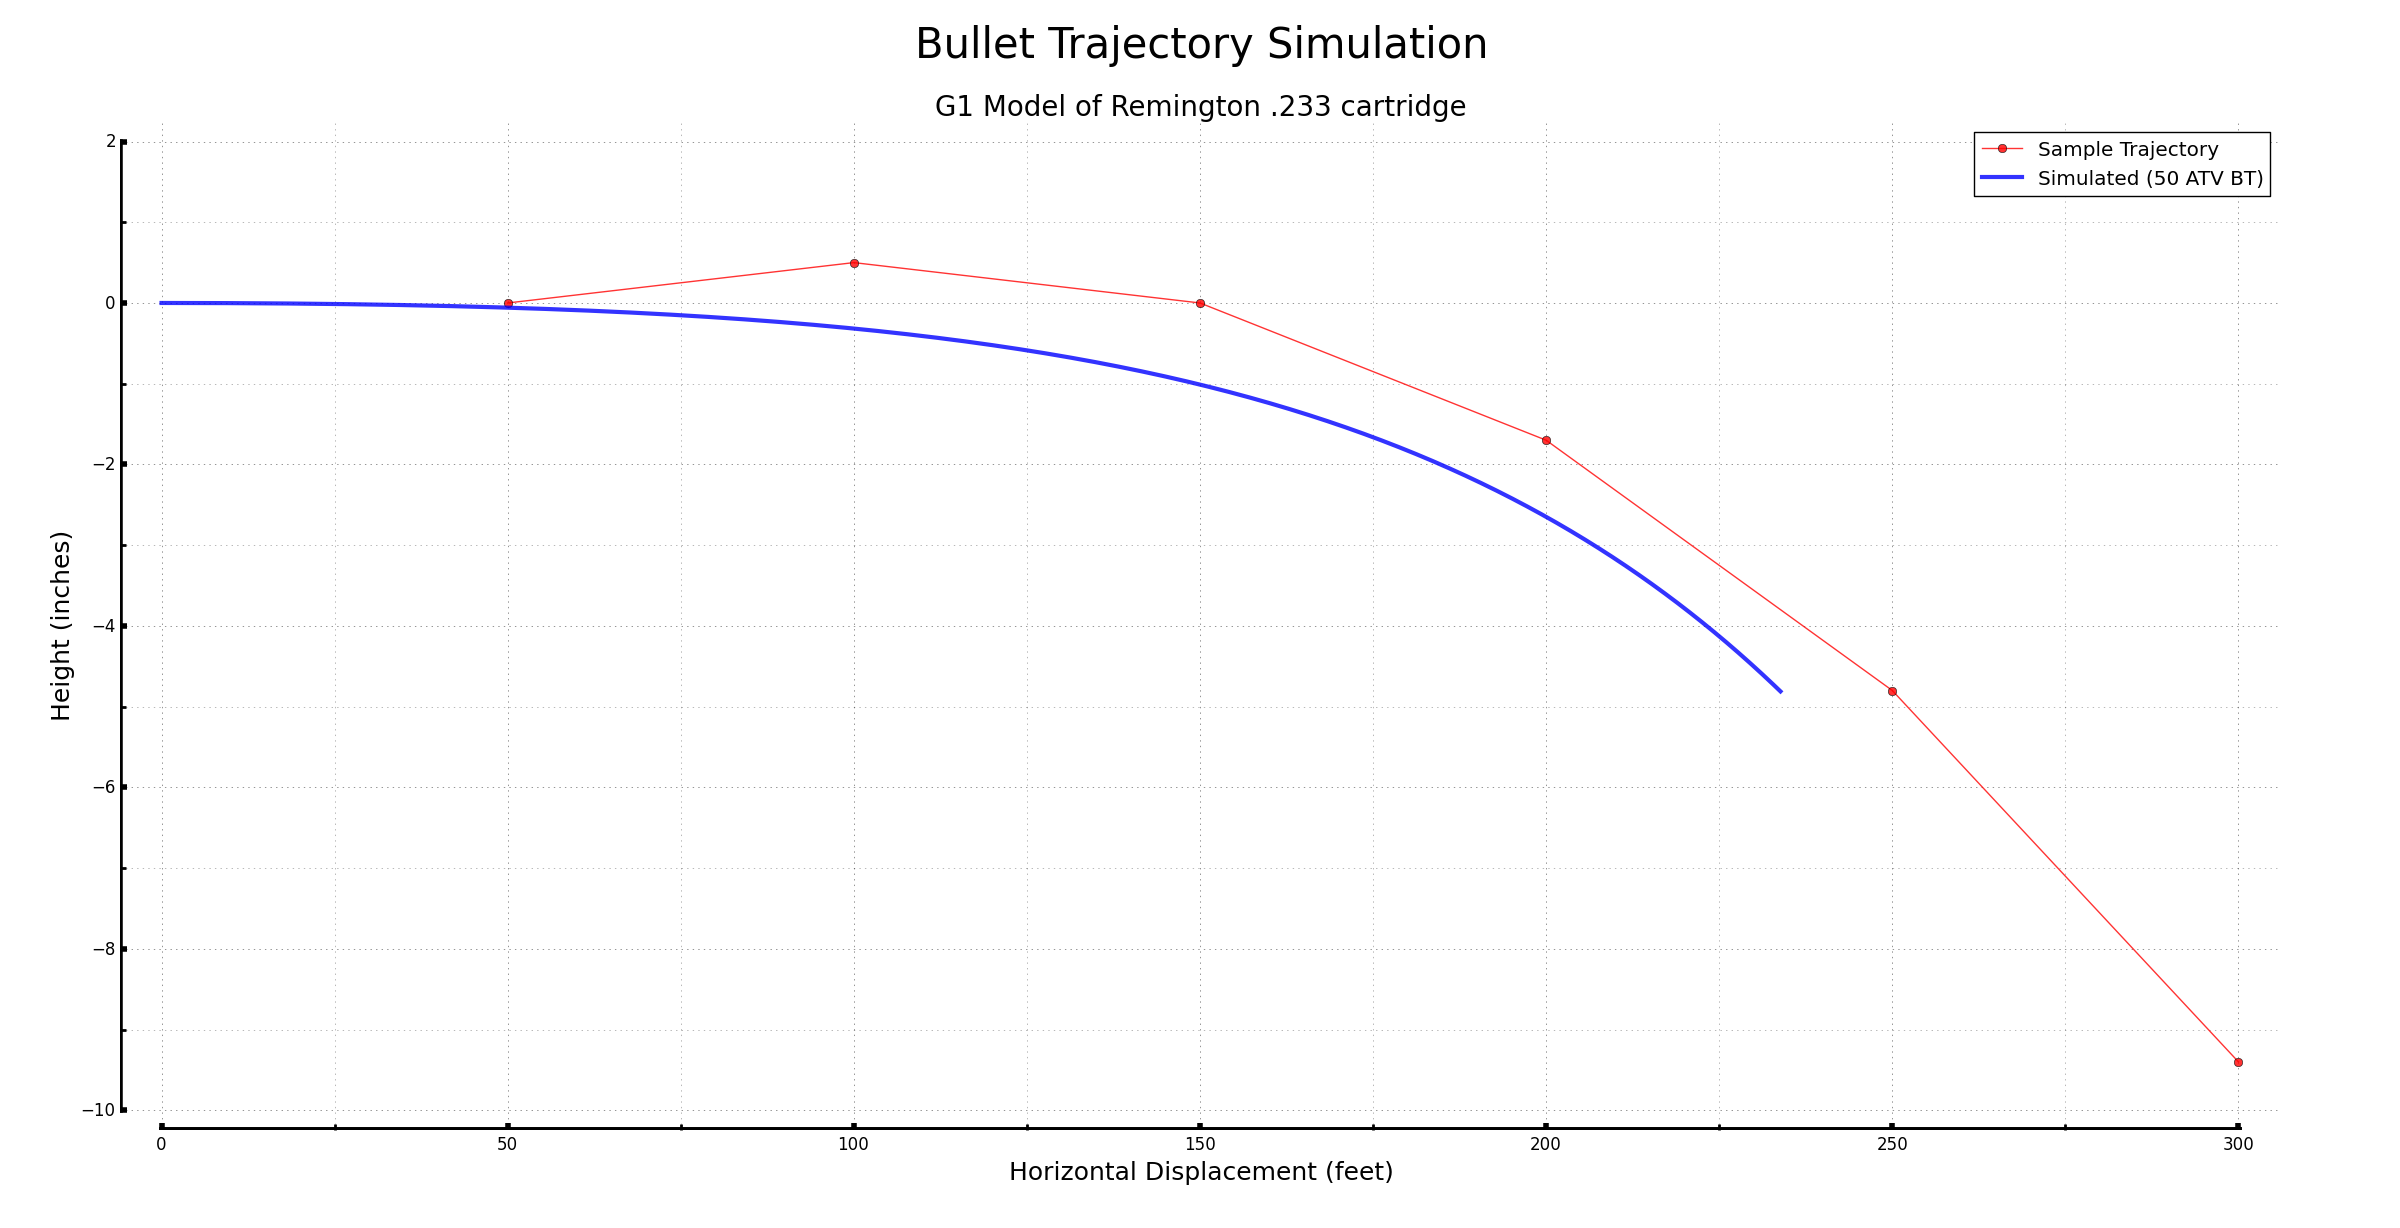
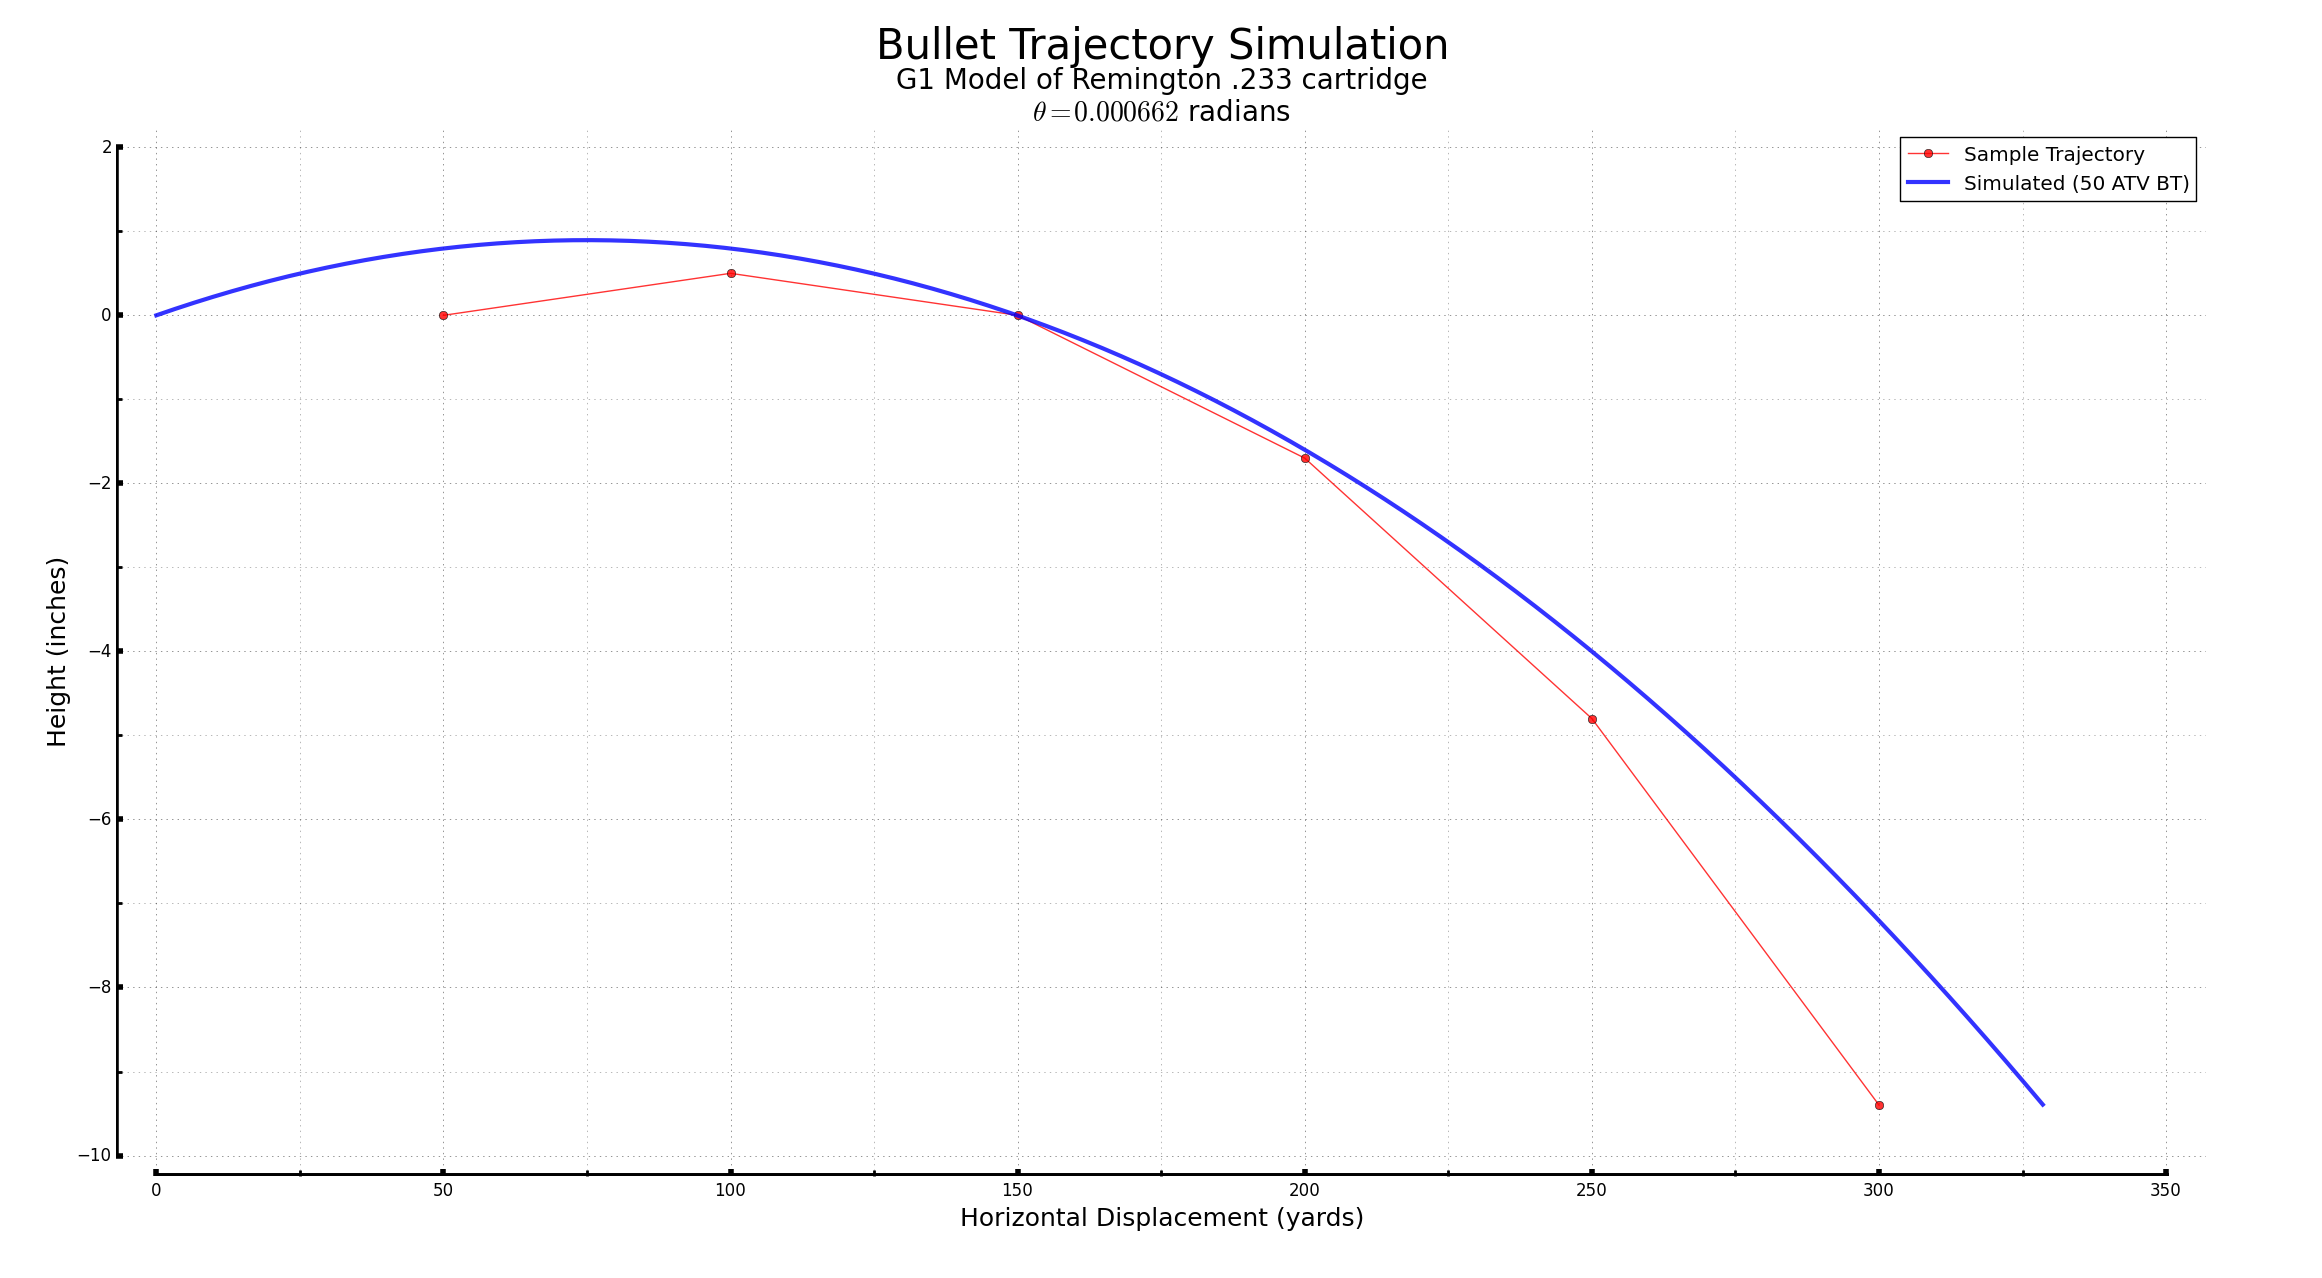
Found Theta! Added comment headers.

diff --git a/main.py b/main.py
@@ -1,4 +1,12 @@
+# -*- coding: utf-8 -*-
+"""
+.. module:: main
+
+.. moduleauthor:: Huginn
+"""
+
 #~ Modules
+from numpy import interp
 from pylab import *
 from scipy.integrate import ode, odeint
 #/~ Modules
@@ -9,35 +17,61 @@ from model import *
 from viz import configure
 #/~ Custom Modules
 
+def find_angle(sight, vm, b, times, theta=0.0003, error=.0001, n=1000):
+    for i in range(n):
+        y0 = [0., 0., vm*cos(theta), vm*sin(theta)]
+        states = odeint(b.shoot, y0, times)
+        states = array(states)
+
+        # Interpolate a y-value given the model predictions.
+        yf = interp(sight, states[:,0]/3., states[:,1]/3.)
+    
+        # If the y-value is greater than the error, halve the angle.
+        if yf > error:
+            theta = theta*.5
+        # If the y-value is less than the error, raise the angle.
+        elif yf < -error:
+            theta = theta*1.5
+        # Else, the angle is good enough.
+        else:
+            return theta
+
+    return None
+
 def main():
 	#~ State Variables
-    
-    t0 = 0; tf = .2; dt=.001;
-    times = np.arange(t0, tf+dt, dt)
+    t0 = 0; tf = .3; dt=.001;
+    times = arange(t0, tf+dt, dt)
     #/~ State Variables
 
     #~ Bullet-specific Variables
     name = '50 ATV BT'
-    b = bullet(name, mass=50., bc=0.942, model=G1)
+    b = bullet(name, mass=50., bc=0.242, model=G1)
     #~/ Bullet-Specific Variables
-
-    #~ Integrate
-    y0 = [0., 0., 3300., 0.]
-    states = odeint(b.shoot, y0, times)
-    states = array(states)
-    #/~ Integrate
 
     #~ Get Samples
     from sample_data import samples
-    x = samples[name]['st'][:,0]; print len(x)
-    y = samples[name]['st'][:,1]; print len(y)
+    vm = samples[name]['v'][:,1][0]
+    sight = samples[name]['st'][:,0][2]
+    
+    x = samples[name]['st'][:,0]
+    y = samples[name]['st'][:,1]
     #/~ Get Samples
+
+    #~ Integrate
+    theta = find_angle(sight, vm, b, times)
+    print "THETA:", theta
+
+    y0 = [0., 0., vm*cos(theta), vm*sin(theta)]
+    states = odeint(b.shoot, y0, times)
+    states = array(states)
+    #/~ Integrate
 
     #~ Plot
     fig, ax = subplots()
 
     r_mark, = ax.plot(x, y, 'ro-', alpha=.8)
-    b_mark, = ax.plot(states[:,0], states[:,1]*12., 'b-', lw=3, alpha=.8)
+    b_mark, = ax.plot(states[:,0]/3., states[:,1]*12., 'b-', lw=3, alpha=.8)
 
     legend( [r_mark, b_mark],
             ['Sample Trajectory',
@@ -45,8 +79,8 @@ def main():
             numpoints=1)
 
     configure(  ax=ax,
-                title=r'G1 Model of Remington .233 cartridge',
-                xlabel=r'Horizontal Displacement (feet)',
+                title=r'G1 Model of Remington .233 cartridge'+'\n'+r'$\theta='+str(round(theta,6))+r'$ radians',
+                xlabel=r'Horizontal Displacement (yards)',
                 ylabel=r'Height (inches)',
                 xbounds=None, ybounds=None)
 

diff --git a/bullet.py b/bullet.py
@@ -1,3 +1,10 @@
+# -*- coding: utf-8 -*-
+"""
+.. module:: bullet
+
+.. moduleauthor:: Huginn
+"""
+
 class bullet:
     def __init__(self, name, mass, bc, model):
         ''' Initializes a 'bullet' object with:
@@ -29,59 +36,7 @@ class bullet:
         m = self.m
 
         v = abs(linalg.norm(array([x[2], x[3]])))
-        ax = -x[2]*(m.A(v)/self.bc)*v**(m.M(v)-1)/self.mass
-        ay = -g - (x[3]*(m.A(v)/self.bc)*v**(m.M(v)-1))/self.mass
+        ax = -x[2]/v*(m.A(v)/self.bc)*v**(m.M(v)-1)/self.mass
+        ay = -g - (x[3]/v*(m.A(v)/self.bc)*v**(m.M(v)-1))/self.mass
 
         return array([x[2], x[3], ax, ay])
-
-if __name__ == "__main__":
-    from pylab import *
-    from scipy.integrate import ode, odeint
-
-    from model import *
-    from viz import configure
-
-    #~ State Variables
-    t0 = 0; tf = .2; dt=.001;
-    times = np.arange(t0, tf+dt, dt)
-    #/~ State Variables
-
-    #~ Bullet-specific Variables
-    name = '50 ATV BT'
-    b = bullet(name, mass=50., bc=0.942, model=G1)
-    #~/ Bullet-Specific Variables
-
-    #~ Integrate
-    y0 = [0., 0., 3300., 0.]
-    states = odeint(b.shoot, y0, times)
-    states = array(states)
-    #/~ Integrate
-
-    #~ Get Samples
-    from sample_data import samples
-    x = samples[name]['st'][:,0]; print len(x)
-    y = samples[name]['st'][:,1]; print len(y)
-    #/~ Get Samples
-
-    #~ Plot
-    fig, ax = subplots()
-
-    r_mark, = ax.plot(x, y, 'ro-', alpha=.8)
-    b_mark, = ax.plot(states[:,0], states[:,1]*12., 'b-', lw=3, alpha=.8)
-
-    legend( [r_mark, b_mark],
-            ['Sample Trajectory',
-             'Simulated ('+str(b)+')'],
-            numpoints=1)
-
-    configure(  ax=ax,
-                title=r'G1 Model of Remington .233 cartridge',
-                xlabel=r'Horizontal Displacement (feet)',
-                ylabel=r'Height (inches)',
-                xbounds=None, ybounds=None)
-
-    fig.suptitle('Bullet Trajectory Simulation', size=30)
-    fig.subplots_adjust(left=0.05, right=0.95, top=0.9, bottom=0.08)
-
-    show()
-    #/~ Plot

diff --git a/model_data.py b/model_data.py
@@ -1,3 +1,10 @@
+# -*- coding: utf-8 -*-
+"""
+.. module:: model_data
+
+.. moduleauthor:: Huginn
+"""
+
 from numpy import array
 
 G1 = array([    [ 4230 , 1.477404177730177e-04 , 1.9565 ],

diff --git a/model.py b/model.py
@@ -1,3 +1,10 @@
+# -*- coding: utf-8 -*-
+"""
+.. module:: model
+
+.. moduleauthor:: Huginn
+"""
+
 class model:
     def __init__(self, V, Av, Mv):
         self.V = V

diff --git a/sample_data.py b/sample_data.py
@@ -1,3 +1,10 @@
+# -*- coding: utf-8 -*-
+"""
+.. module:: sample_data
+
+.. moduleauthor:: Huginn
+"""
+
 from numpy import array
 
 samples = {}

diff --git a/constants.py b/constants.py
@@ -1,3 +1,10 @@
+# -*- coding: utf-8 -*-
+"""
+.. module:: constants
+
+.. moduleauthor:: Huginn
+"""
+
 g = 32
 
 grains_to_pounds = 1./7000.
